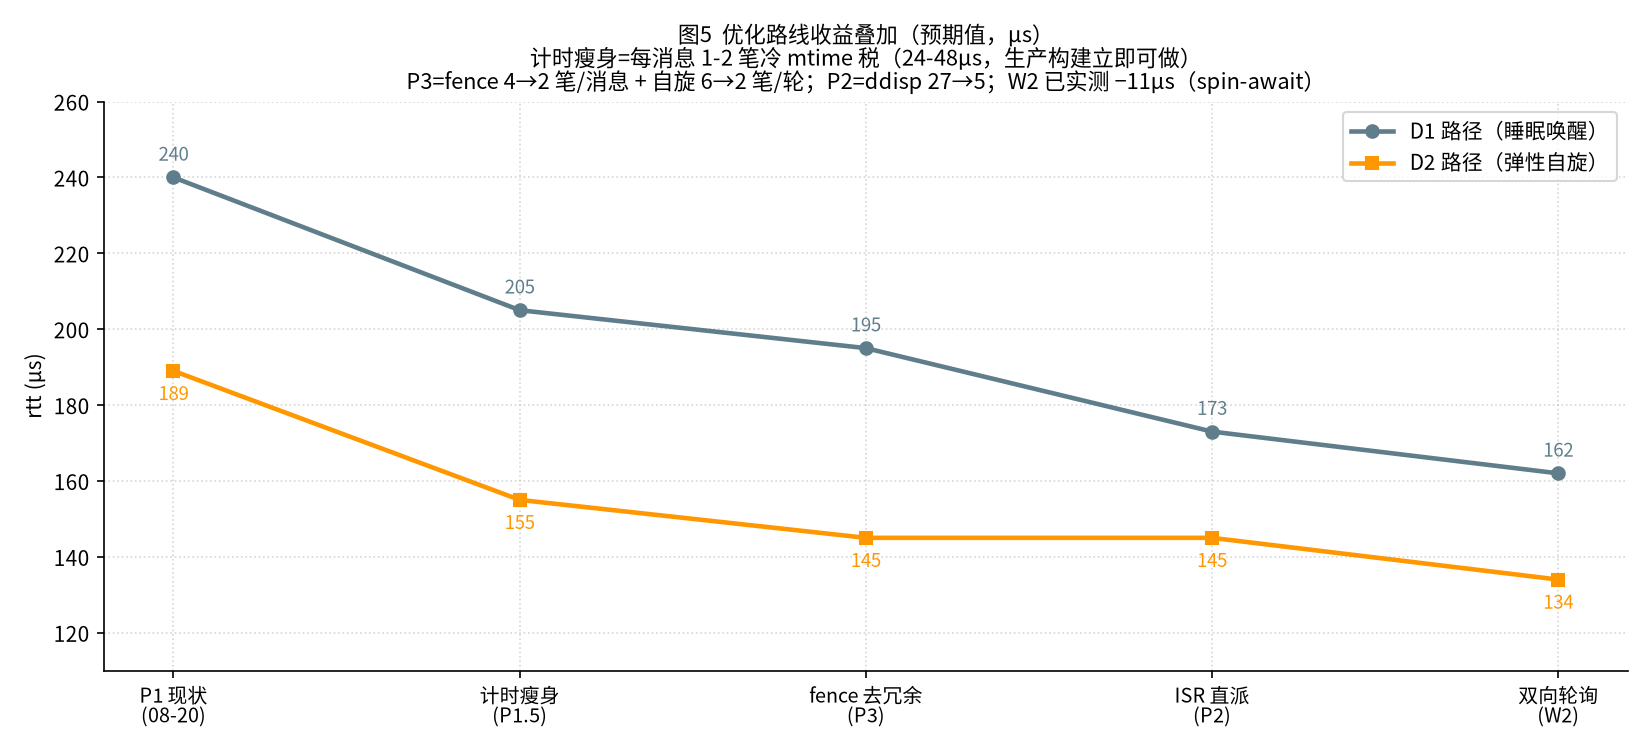
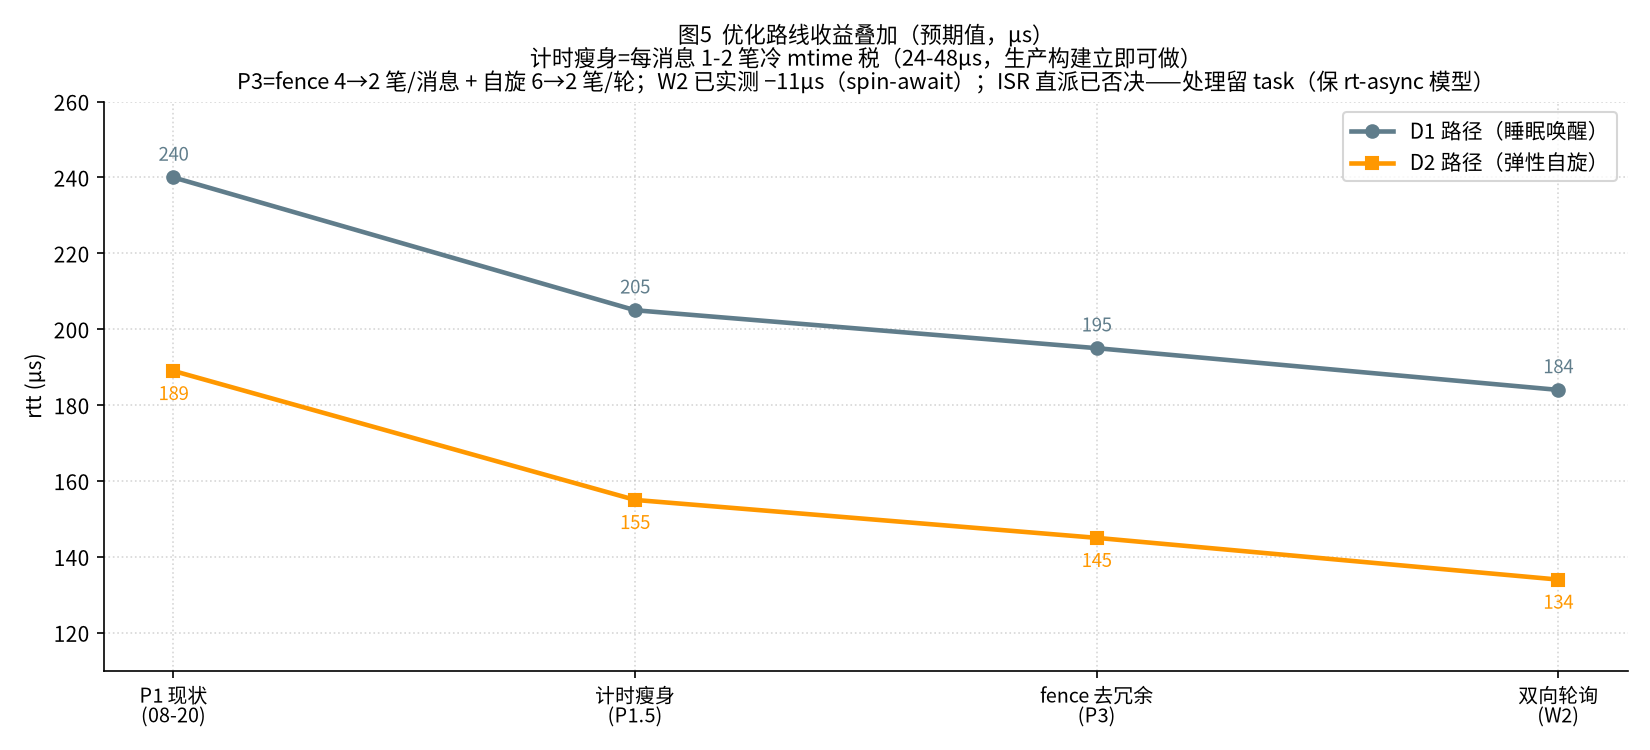
docs(latency-report): 路线图更新——P2 ISR 直派否决（处理留 task，保 rt-async 任务模型），叠加预期 D1 240→184；确立随进展实时维护约定

diff --git a/docs/latency-report/make_figs.py b/docs/latency-report/make_figs.py
@@ -198,9 +198,11 @@ def fig4_mtime_trap():
 # ============================================================================
 def fig5_roadmap():
     fig, ax = plt.subplots(figsize=(11, 5))
-    steps = ["P1 现状\n(08-20)", "计时瘦身\n(P1.5)", "fence 去冗余\n(P3)", "ISR 直派\n(P2)", "双向轮询\n(W2)"]
-    d1 = [240, 205, 195, 173, 162]
-    d2 = [189, 155, 145, 145, 134]
+    # ISR 直派已否决（2026-08-21 用户决策：保 rt-async 任务模型，实际处理留
+    # task 上下文），从轨迹中移除该步。
+    steps = ["P1 现状\n(08-20)", "计时瘦身\n(P1.5)", "fence 去冗余\n(P3)", "双向轮询\n(W2)"]
+    d1 = [240, 205, 195, 184]
+    d2 = [189, 155, 145, 134]
     x = np.arange(len(steps))
     ax.plot(x, d1, "o-", lw=2.2, color=C_AP, label="D1 路径（睡眠唤醒）")
     ax.plot(x, d2, "s-", lw=2.2, color=C_FENCE, label="D2 路径（弹性自旋）")
@@ -213,7 +215,7 @@ def fig5_roadmap():
     ax.set_ylabel("rtt (µs)")
     ax.set_title("图5  优化路线收益叠加（预期值，µs）\n"
                  "计时瘦身=每消息 1-2 笔冷 mtime 税（24-48µs，生产构建立即可做）\n"
-                 "P3=fence 4→2 笔/消息 + 自旋 6→2 笔/轮；P2=ddisp 27→5；W2 已实测 −11µs（spin-await）", fontsize=10.5)
+                 "P3=fence 4→2 笔/消息 + 自旋 6→2 笔/轮；W2 已实测 −11µs（spin-await）；ISR 直派已否决——处理留 task（保 rt-async 模型）", fontsize=10.5)
     ax.grid(ls=":", alpha=0.5)
     ax.legend(fontsize=10)
     ax.set_ylim(110, 260)

diff --git a/docs/latency-report/REPORT.md b/docs/latency-report/REPORT.md
@@ -7,7 +7,8 @@
 
 > 全部数据为板上实测（dd 场景闭环残差 30/30 = 0.0，AP/RP 双钟交叉校验）。
 > 图表由 `make_figs.py` 生成（`python3 make_figs.py` 重跑）。
-> 本文档为过程报告，不入 git。
+> **维护约定**（2026-08-21 起）：本报告随进展实时维护——每次进展先形成干净的
+> commit，再同步更新本报告；**本报告入 git 维护，除此之外的过程文档一律不维护**。
 
 ---
 
@@ -59,7 +60,7 @@ D1 路径六段（dd 场景闭环恒等式 `rtt = send + ddrain + ddisp + dseen 
 |---|------|-------|---------|
 | send | AP 用户态写入+发布 | 8.5 | user-cbo 按行发布（槽 4 行+索引 1 行）+ BUSY 判定，D2 路径零 syscall |
 | ddrain | RP ISR 舞步 | 3.6 | mailbox FIFO 排空 + latch（①′优化后从 11.3 降来） |
-| ddisp | trap+调度+MSIP 落地 | 27.1 | 含 MSIP 跨桥写落地 ~54µs 物理地板的摊派 + 执行器派发（P2 靶子） |
+| ddisp | trap+调度+MSIP 落地 | 27.1 | 含 MSIP 跨桥写落地 ~54µs 物理地板的摊派 + 执行器派发（ISR 直派已否决——处理留 task 上下文，此段为 rt-async 任务模型的结构性成本） |
 | dpre | 发现前缀 | 24.3 | set_busy(2.2) + ch2 空查(6.6) + **mtime 戳税(~14)** + 链路 |
 | drx | try_recv 取包 | 45.6 | 3 笔 Acquire(6.6) + 槽读(1.2) + Release(2.2) + **mtime 戳税(~24)** ≈ 真实 ~20 |
 | dserde | 分发+反序列化 | 38.0 | method_id(1.1) + dispatch/postcard(~10) + **mtime 戳税(~24)** ≈ 真实 ~11 |
@@ -172,13 +173,13 @@ D1 路径六段（dd 场景闭环恒等式 `rtt = send + ddrain + ddisp + dseen 
 | 优先级 | 项 | 内容 | 预期收益 | 工作量/风险 |
 |-------|----|------|---------|------------|
 | ✅ 已完成 | P1 | 单核原子 CS 后端（atomic-cas:false target）+ timer 直连 + 本地别名窗 + mailbox 去 Acquire | 294→240（D1）/ 209→189（D2） | 已合入 |
-| **P1** | **计时瘦身** | step/SVC/弹性窗计时改采样制或去冷读（生产构建每消息 1-2 笔冷 mtime）；测量构建 stamp 链换源或加保温 | **−35µs（D1）/ −34µs（D2）**，生产构建立即可做 | 小 / 低——纯删减 |
-| **P2** | **P3 fence 去冗余** | magic 缓存 + 自产索引 Relaxed + 自旋 6→2 笔（D2 发现粒度 ×3）+ ch2 查询瘦身 | −10µs/消息 + 自旋 18→6µs/轮 | 中 / 低——正确性论证已完成（SPSC 单写者 + RP 无缓存） |
-| **P3** | **P2 ISR 直派** | 响应在 ISR 内写完，消灭 MSIP 自环+二次 trap+落地等待 | ddisp 27→~5 | 中 / 中 |
-| **P4** | **W2 双向轮询** | AP 响应方向用户态自旋（已实测 −11µs）；绕过 MSIP 54µs 物理地板 | −11µs 起；延迟关键模式更多 | 小（bench 已预演）/ 烧 AP 核 |
+| **进行中** | **计时瘦身** | 计时源替换调研（依据 docs-chip 中 RT24 可达设备）+ step/SVC/弹性窗计时改采样制或去冷读（生产构建每消息 1-2 笔冷 mtime）；测量构建 stamp 链换源或加保温 | **−35µs（D1）/ −34µs（D2）**，生产构建立即可做 | 小 / 低——纯删减 |
+| 第 2 刀 | **P3 fence 去冗余** | magic 缓存 + 自产索引 Relaxed + 自旋 6→2 笔（D2 发现粒度 ×3）+ ch2 查询瘦身 | −10µs/消息 + 自旋 18→6µs/轮 | 中 / 低——正确性论证已完成（SPSC 单写者 + RP 无缓存） |
+| 第 3 刀 | **W2 双向轮询** | AP 响应方向用户态自旋（已实测 −11µs）；绕过 MSIP 54µs 物理地板 | −11µs 起；延迟关键模式更多 | 小（bench 已预演）/ 烧 AP 核 |
+| ❌ 已否决 | ~~P2 ISR 直派~~ | ~~响应在 ISR 内写完~~ **否决（2026-08-21）**：不破坏 rt-async 的任务模型——实际处理必须留在 task 上下文（executor/waker 语义），ISR 只做唤醒/标记；ddisp 27.1µs 作为结构性成本保留 | —（预期 −22µs 放弃） | — |
 | 远期 | 硬件 | mailbox 载荷直传小消息（数据进门铃）/ 硬件 spinlock（0xCAC9_1C00，手册背书） | 再往下 | 大 |
 
-叠加预期：**D1 240→~162，D2 189→~134**。再往下就是 SPSC 协议本体（每消息 4 笔 fence ≈ 8.8µs）+ 数据搬运（~7.5µs）的物理下限区。
+叠加预期（不含已否决项）：**D1 240→~184，D2 189→~134**。再往下就是 SPSC 协议本体（每消息 4 笔 fence ≈ 8.8µs）+ 数据搬运（~7.5µs）+ 任务模型结构性成本（ddisp ~27µs）的物理下限区。
 
 ---
 
